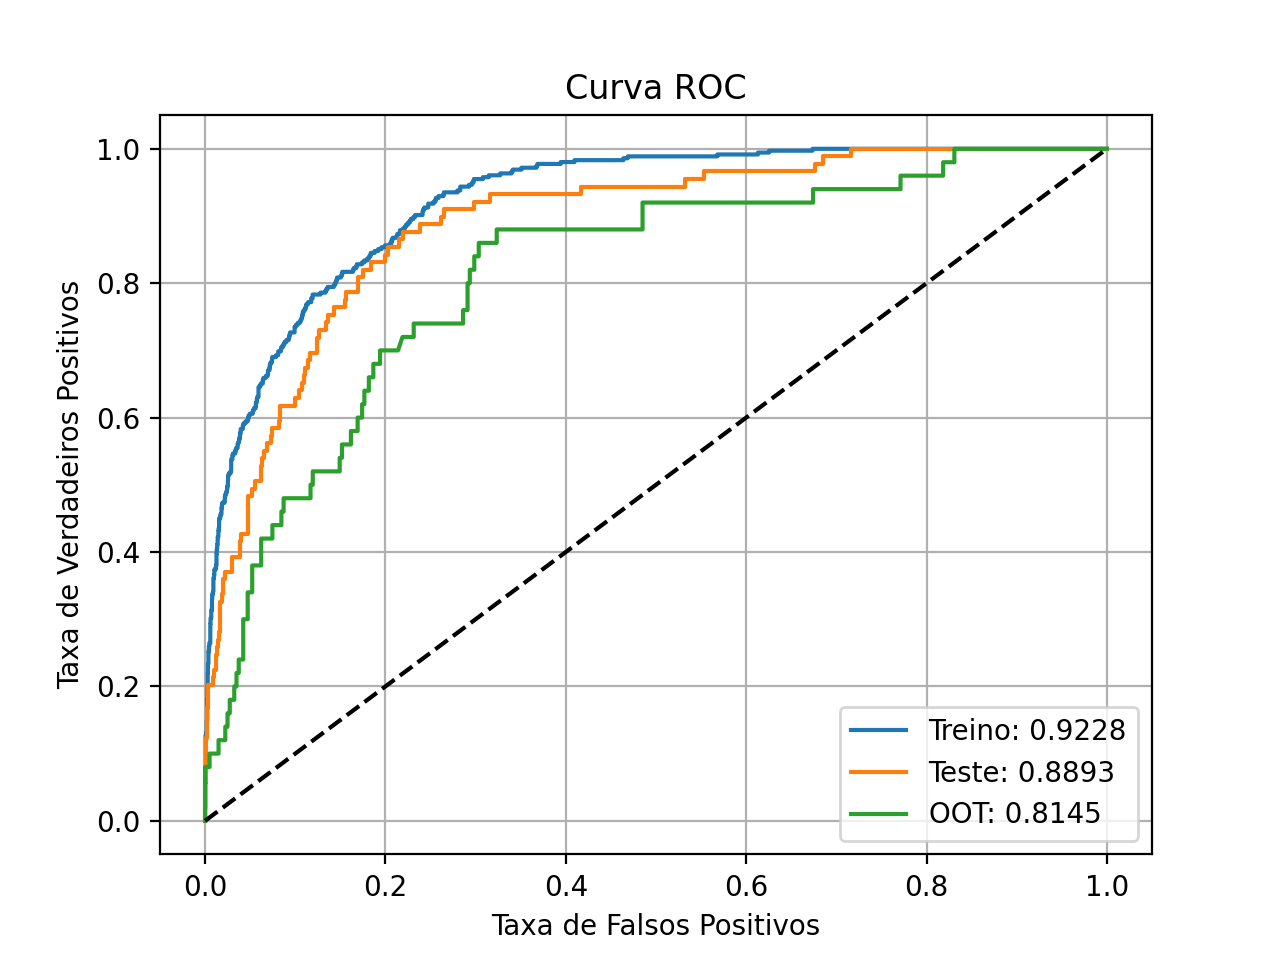
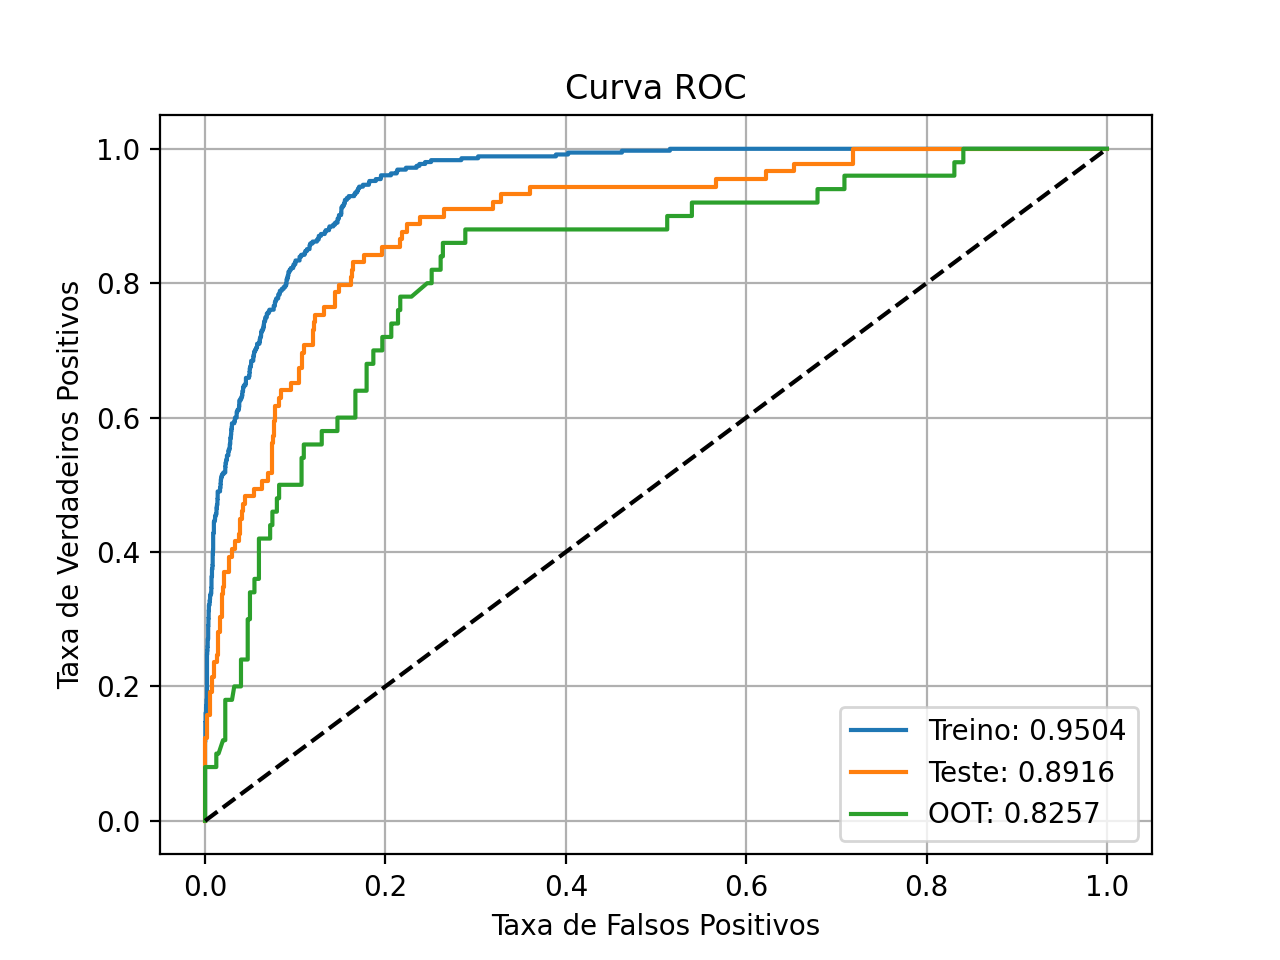
Creating a grid selection for parameter optimization.

diff --git a/src/analytics/train.py b/src/analytics/train.py
@@ -6,7 +6,7 @@ import matplotlib.pyplot as plt
 
 from sklearn import tree
 from sklearn import ensemble
-from sklearn.model_selection import train_test_split
+from sklearn import model_selection
 from sklearn import pipeline
 
 from feature_engine.selection import DropFeatures
@@ -49,7 +49,7 @@ df_train_test = df[df['DtRef'] < df['DtRef'].max()].reset_index(drop=True)
 X = df_train_test[features]  # Isso é um pd.DataFrame (Matriz)
 y = df_train_test[target]  # Isso é um pd.Series (Vetor)
 
-X_train, X_test, y_train, y_test = train_test_split(X, y,
+X_train, X_test, y_train, y_test = model_selection.train_test_split(X, y,
                                                     test_size=0.2,
                                                     random_state=42,
                                                     stratify=y)
@@ -116,7 +116,7 @@ input_1000 = ArbitraryNumberImputer(arbitrary_number=1000,
 
 onehot = OneHotEncoder(variables=cat_features)
 
-# MODEL
+# MODEL - ALGORITMO DE ML
 
 # model = tree.DecisionTreeClassifier(random_state=42, min_samples_leaf=50)  
 # model = ensemble.AdaBoostClassifier(random_state=42,
@@ -124,8 +124,20 @@ onehot = OneHotEncoder(variables=cat_features)
 #                                     learning_rate=0.1)
 model = ensemble.RandomForestClassifier(random_state=42,
                                         n_estimators=400,
-                                        min_samples_leaf=50)
+                                        min_samples_leaf=50,
+                                        n_jobs=2)
+params = {
+    "n_estimators": [100, 200, 400, 500, 1000],
+    "min_samples_leaf": [10, 20, 30, 50, 75, 100]
+}
 
+grid = model_selection.GridSearchCV(model,
+                                    param_grid=params,
+                                    scoring='roc_auc',
+                                    cv=3,
+                                    refit=True,
+                                    verbose=3,
+                                    n_jobs=4)
 # CRIANDO PIPELINE
 
 with mlflow.start_run() as r:
@@ -138,9 +150,9 @@ with mlflow.start_run() as r:
         ('Imputacao Nao_Usuario', input_new),
         ('Imputacao 1000', input_1000),
         ('OneHot Encoding', onehot),
-        ('Modelo de ML', model),
+        ('Algoritmo', grid),
     ])
-
+        
     model_pipeline.fit(X_train, y_train)
     
     # ASSESS - Métricas de Desempenho
@@ -212,7 +224,8 @@ with mlflow.start_run() as r:
 features_names = (model_pipeline[:-1].transform(X_train.head(-1))
                                     .columns.tolist())
 
-features_importances = pd.Series(model.feature_importances_,
+features_importance = pd.Series(model_pipeline[-1].feature_importances_,
                                  index=features_names)
 
-features_importances.sort_values(ascending=False)
+features_importance.sort_values(ascending=False)
+# %%
